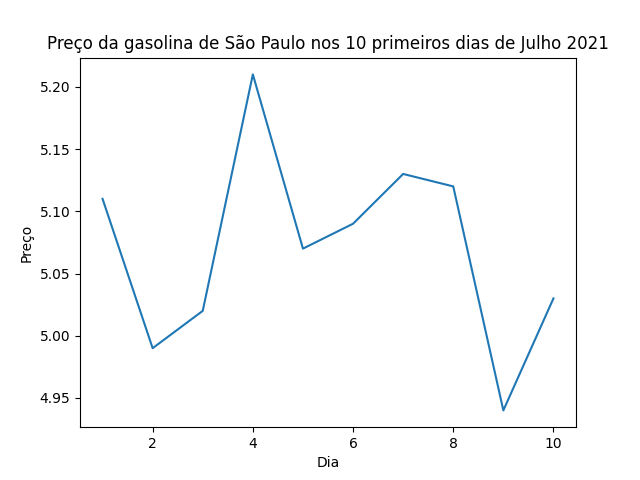
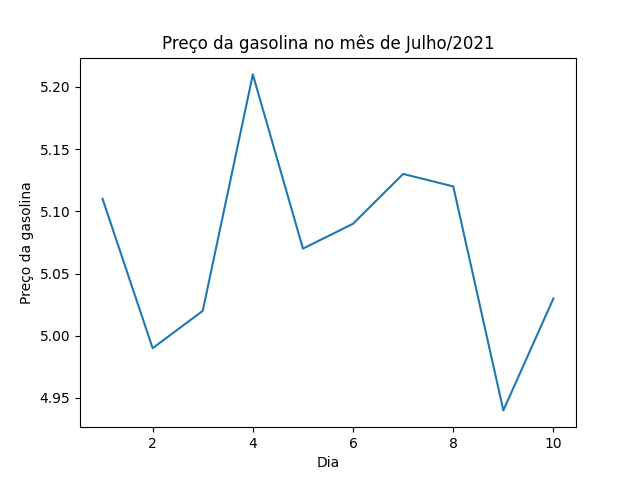
adiciona arquivos gasolina.png e gasolina.py com alterações em ambos.

Changed region(s): [[0.0625, 0.0625, 0.9375, 0.125], [0.0312, 0.375, 0.0625, 0.625]]

diff --git a/gasolina.py b/gasolina.py
@@ -1,24 +1,23 @@
-# código de geração do gráfico
+# Bibliotecas usadas para gerar o gráfico.
 
-import seaborn as sns
 import pandas as pd
+import seaborn as sns
 import matplotlib.pyplot as plt
 
-# Lê o arquivo csv e gera o dataframe do arquivo.
+# Lê o arquivo csv e gera o dataframe.
 
 df = pd.read_csv("gasolina.csv")
 
-# Cria o gráfico de linhas definindo eixo x e y.
+# Gera o gráfico de linha definindo x e y.
 
 sns.lineplot(data=df, x="dia", y="venda")
 
-# Adiciona título ao gráfico e labels.
+# Nomeia o gráfico e os eixos x e y.
 
-plt.title("Preço da gasolina de São Paulo nos 10 primeiros dias de Julho 2021")
+plt.title("Preço da gasolina no mês de Julho/2021")
 plt.xlabel("Dia")
-plt.ylabel("Preço")
+plt.ylabel("Preço da gasolina")
 
-# Salva o gráfico em um arquivo png.
+# Salva o gráfico como arquivo png.
 
 plt.savefig("gasolina.png")
-plt.show()
